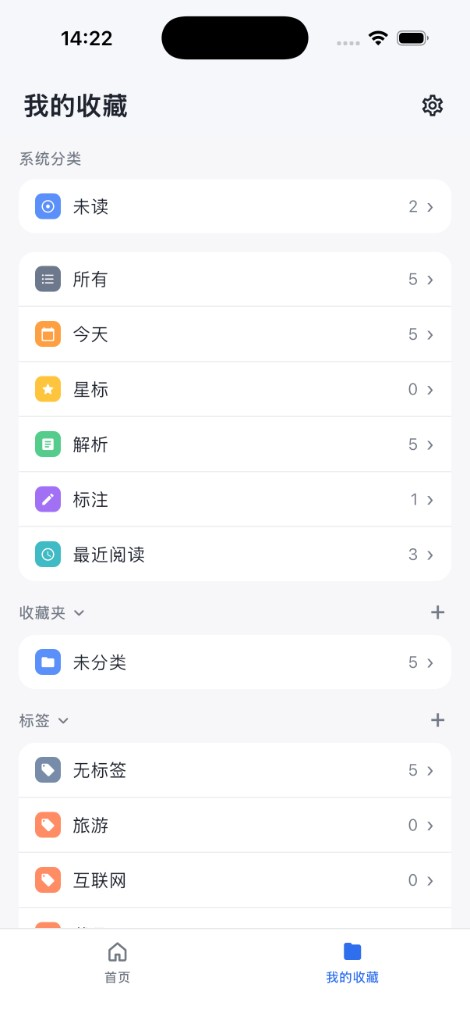
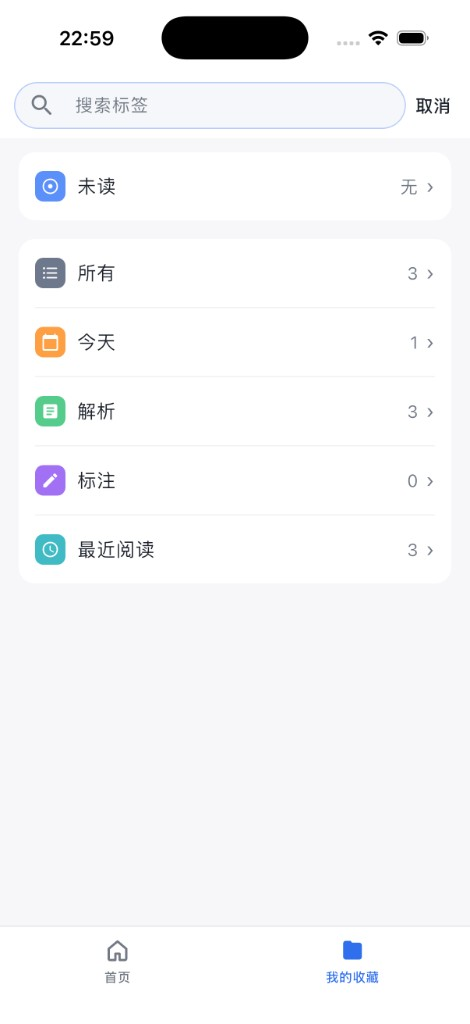
feat: 官网首页更新

diff --git a/backend/public/index.html b/backend/public/index.html
@@ -143,7 +143,7 @@
       <div class="inner flip">
         <div class="copy">
           <h2>好找回</h2>
-          <p>未读、星标、收藏夹、标签<br />好内容有处可放</p>
+          <p>搜关键词，按标签筛<br />分类入口，好找回来</p>
         </div>
         <figure class="phone">
           <span class="phone-btn silent" aria-hidden="true"></span>
@@ -151,7 +151,7 @@
           <span class="phone-btn vol-down" aria-hidden="true"></span>
           <span class="phone-btn power" aria-hidden="true"></span>
           <div class="phone-screen">
-            <img src="assets/library.png" width="470" height="1024" alt="我的收藏：系统分类、收藏夹与标签" />
+            <img src="assets/library.png" width="470" height="1024" alt="我的收藏：搜索标签与分类入口" />
           </div>
         </figure>
       </div>
